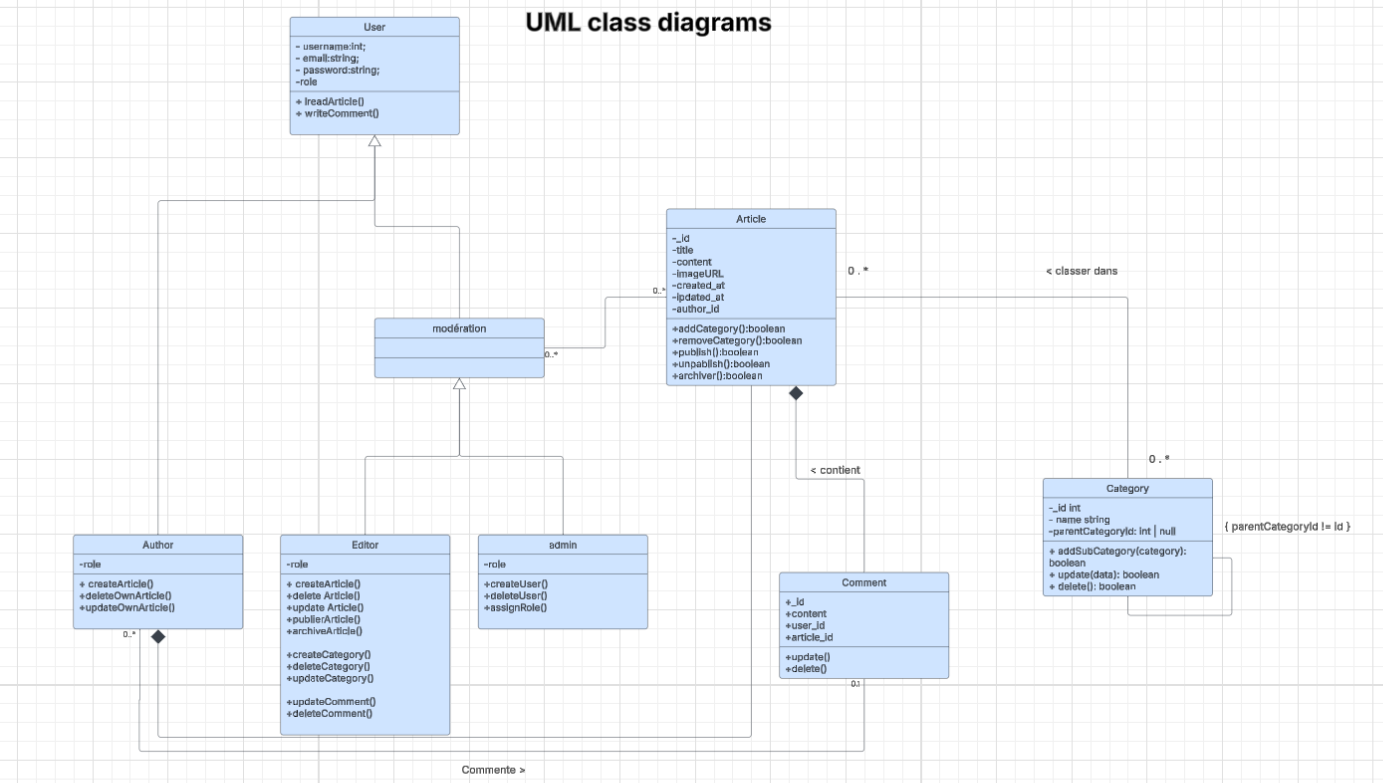
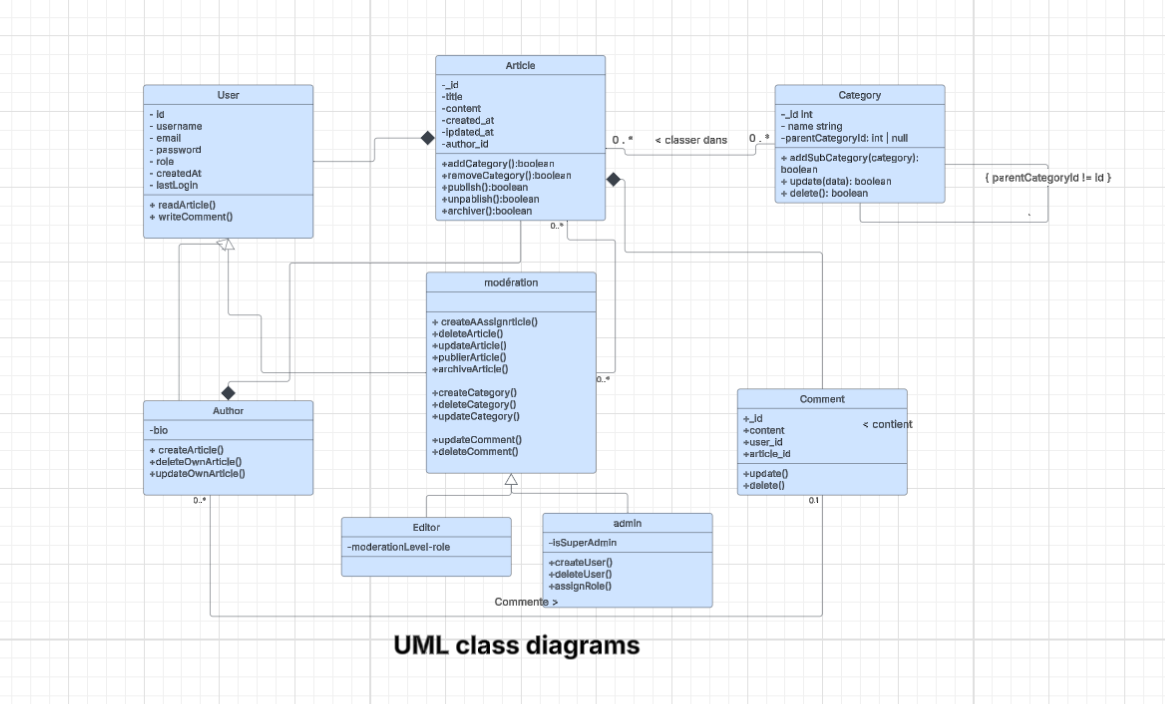
midification sur le diagramme de classe

diff --git a/index.php b/index.php
@@ -1,5 +1,146 @@
 <?php
-echo "Enter your name: ";
-$name = trim(fgets(STDIN));
+// -----------------------------------  Users  ---------------------------------
+class Users {
+    protected int $_id ;
+    protected String $username;
+    protected String $email ;
+    protected String $password ;
+    protected String $role ;
+    protected DateTime $created_at ;
+    protected DateTime $lastLogin;
 
-echo "Hello, $name\n";
+    public function __construct($_id, $username, $email, $password, $role)
+    {
+        $this->_id = $_id;
+        $this->username = $username;
+        $this->email = $email;
+        $this->password = $password;
+        $this->role = $role;
+        $this->created_at = DateTime('today');
+        $this->lastLogin = new DateTime();
+    }
+
+    public function readArticles()
+    {
+        
+    }
+
+    public function writeComment()
+    {
+
+    }
+
+}
+
+// -----------------------------------  Author  ---------------------------------
+class Author extends Users {
+    private String $bio;
+
+    public function __construct($_id, $username, $email, $password, $role, $bio)
+    {
+        parent::__construct($_id, $username, $email, $password, $role);
+        $this->bio = $bio;
+
+    }
+    
+    public function createArticle()
+    {
+
+    }
+    
+    public function deleteOwnArticle()
+    {
+        
+    }
+    
+    public function updateOwnArticle()
+    {
+        
+    }
+}
+
+// -------------------------    MODERATOR   --------------------------------------
+class Moderateur extends Users {
+    // Articles 
+    public function createAAssignrticle()
+    {
+
+    }
+
+    public function deleteArticle()
+    {
+
+    }
+
+    public function updateArticle()
+    {
+
+    }
+
+    public function publierArticle()
+    {
+
+    }
+
+    public function archiveArticle()
+    {
+
+    }
+
+    // Categories
+    public function createCategory()
+    {
+
+    }
+
+    public function deleteCategory()
+    {
+
+    }
+
+    public function updateCategory()
+    {
+
+    }
+
+    // Comments
+    public function updateComment()
+    {
+
+    }
+    
+    public function deleteComment()
+    {
+
+    }
+
+}
+
+// -------------------------    Editor   --------------------------------------
+class Editor extends Moderateur {
+    private String $moderation_Level;
+}
+
+// -------------------------    ADMIN   --------------------------------------
+class Admin extends Moderateur {
+    private Boolean $isSuperAdmin;
+
+    public function createUser()
+    {
+
+    }
+
+    public function deleteUser()
+    {
+
+    }
+
+    public function assignRole()
+    {
+
+    }
+
+
+}
+
+// ---------------------------------------  CATEGORY    ------------------------------------------
